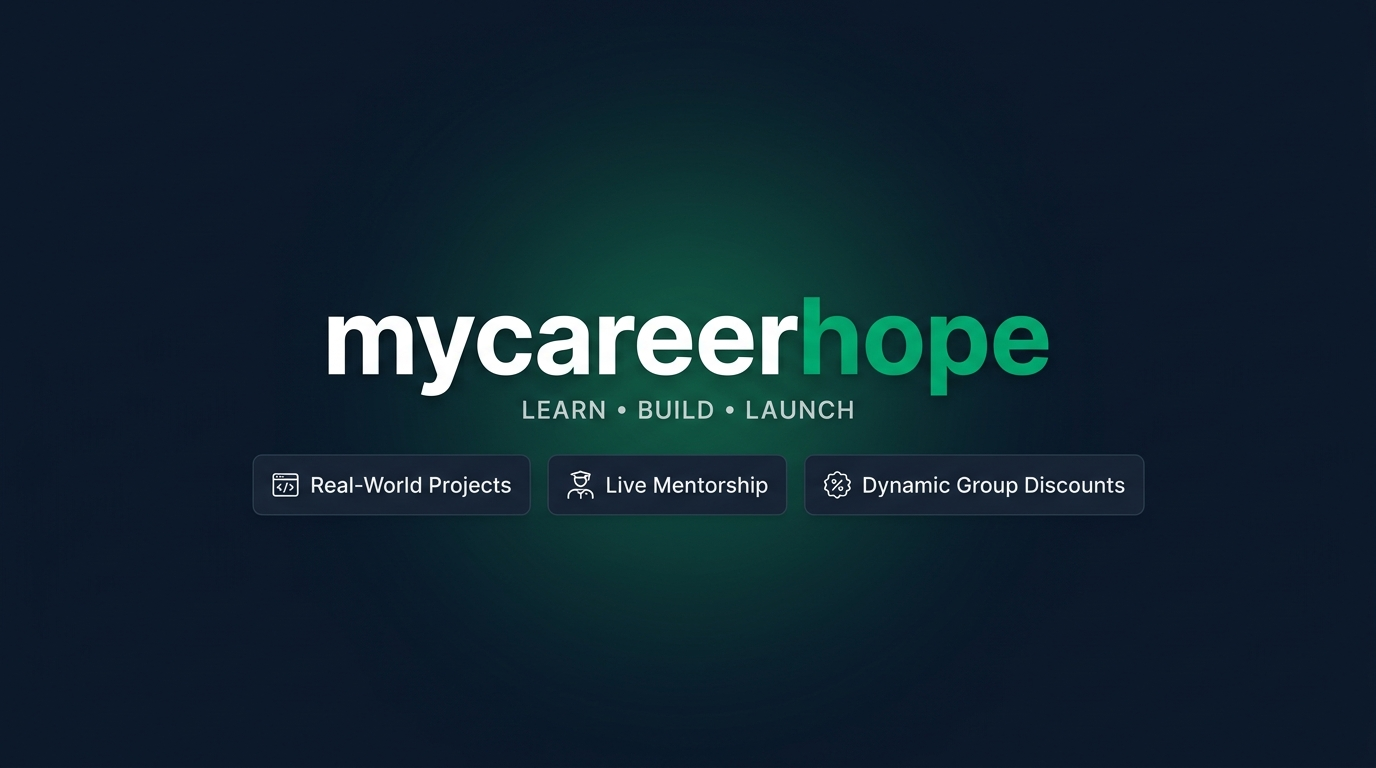
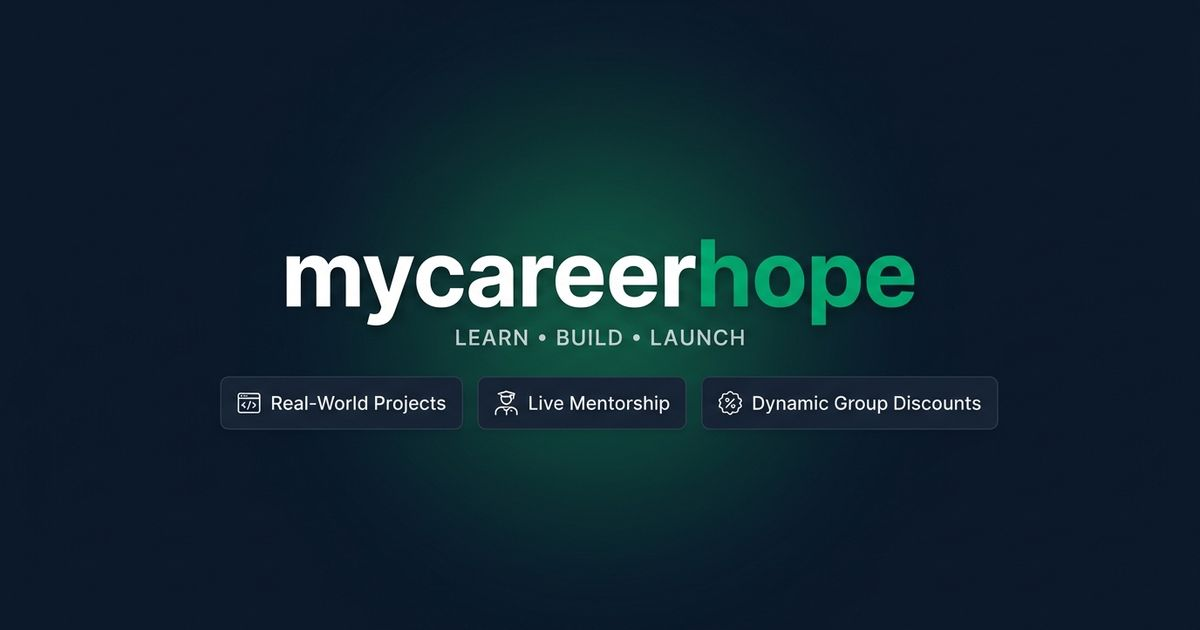
Optimize OG image sizes (<300KB) and configure explicit OpenGraph tags for WhatsApp link preview popups

diff --git a/src/app/layout.tsx b/src/app/layout.tsx
@@ -24,13 +24,24 @@ export const metadata: Metadata = {
   openGraph: {
     title: "MyCareerHope - Learn Today. Build Experience. Launch Your Career.",
     description: "Live IT training from industry professionals, real-world projects, career mentorship, and India's first platform with Dynamic Group Pricing.",
+    url: "https://mycareerhope.com",
     siteName: "MyCareerHope",
     images: [
       {
-        url: "/og-image.png",
+        url: "/og-image.jpg",
+        secureUrl: "https://mycareerhope.com/og-image.jpg",
         width: 1200,
         height: 630,
         alt: "MyCareerHope - Learn Today. Build Experience. Launch Your Career.",
+        type: "image/jpeg",
+      },
+      {
+        url: "/og-image.png",
+        secureUrl: "https://mycareerhope.com/og-image.png",
+        width: 1200,
+        height: 630,
+        alt: "MyCareerHope - Learn Today. Build Experience. Launch Your Career.",
+        type: "image/png",
       },
     ],
     locale: "en_US",
@@ -40,7 +51,7 @@ export const metadata: Metadata = {
     card: "summary_large_image",
     title: "MyCareerHope - Learn Today. Build Experience. Launch Your Career.",
     description: "Live IT training from industry professionals, real-world projects, career mentorship, and India's first platform with Dynamic Group Pricing.",
-    images: ["/og-image.png"],
+    images: ["/og-image.jpg"],
   },
 };
 
